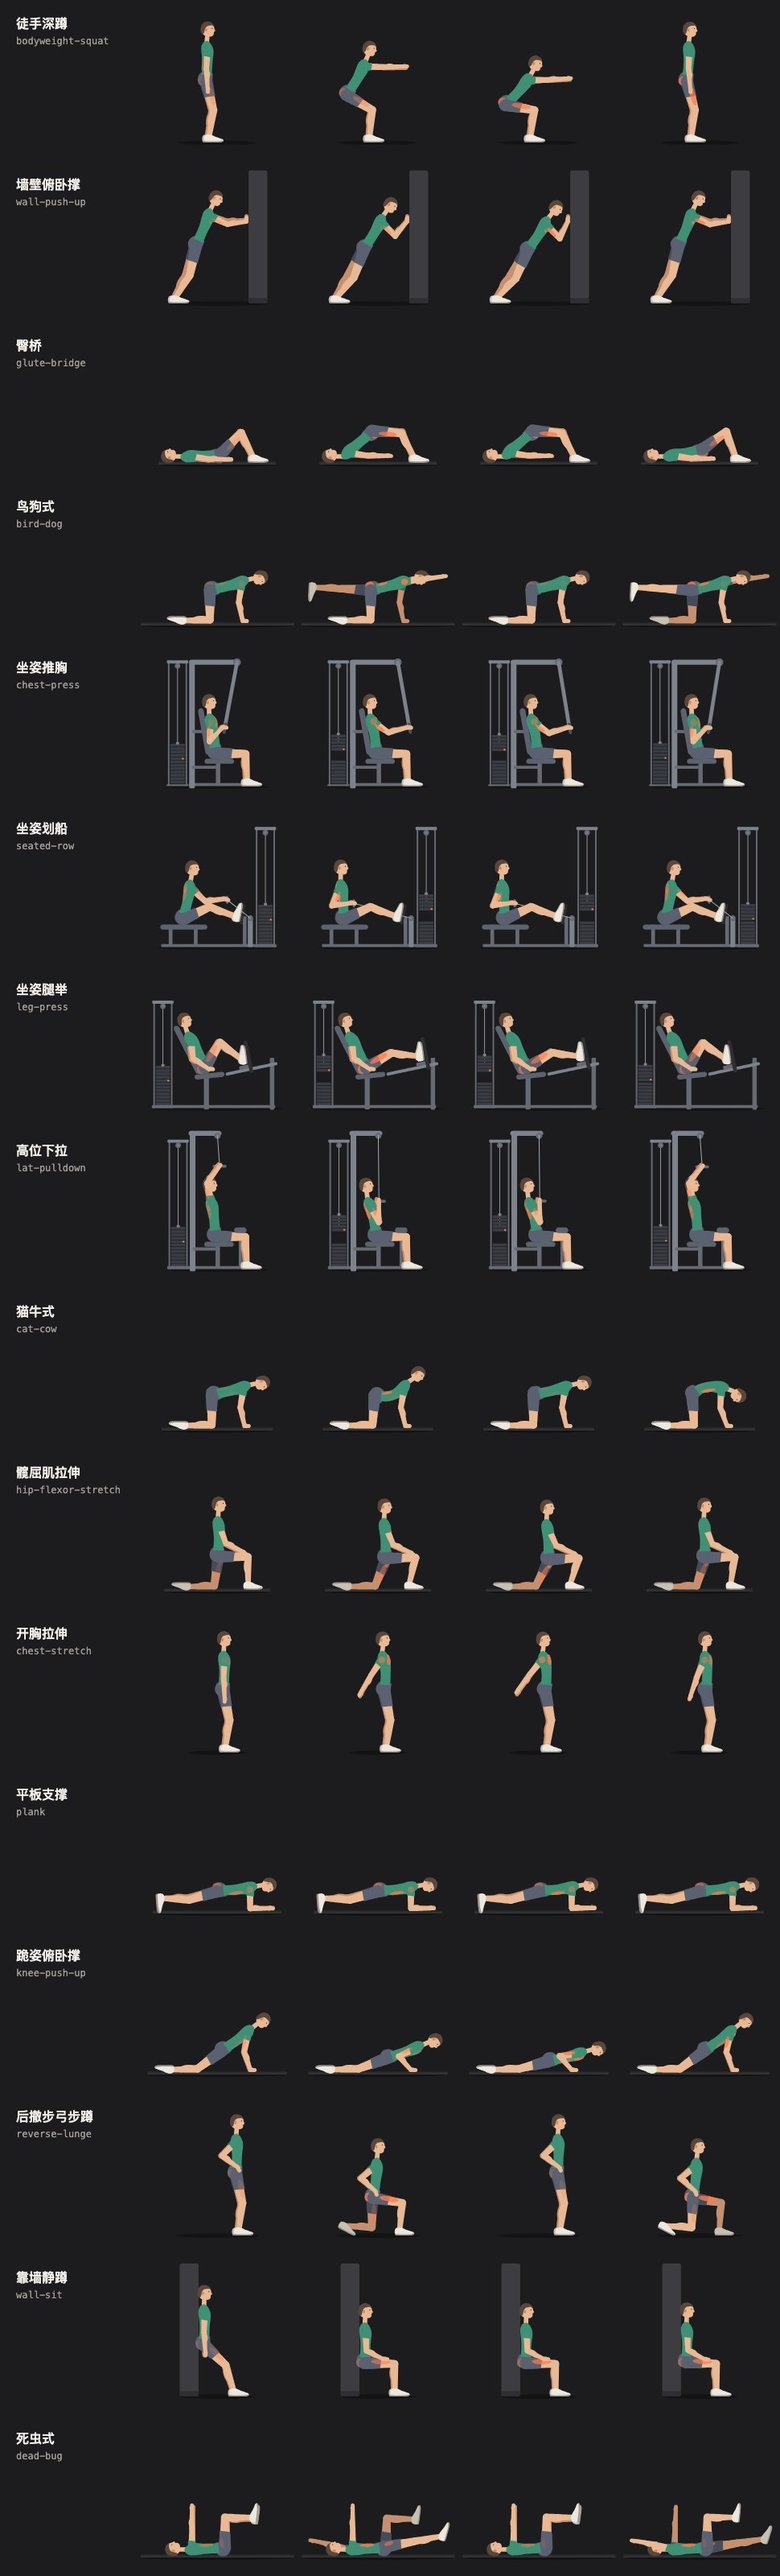
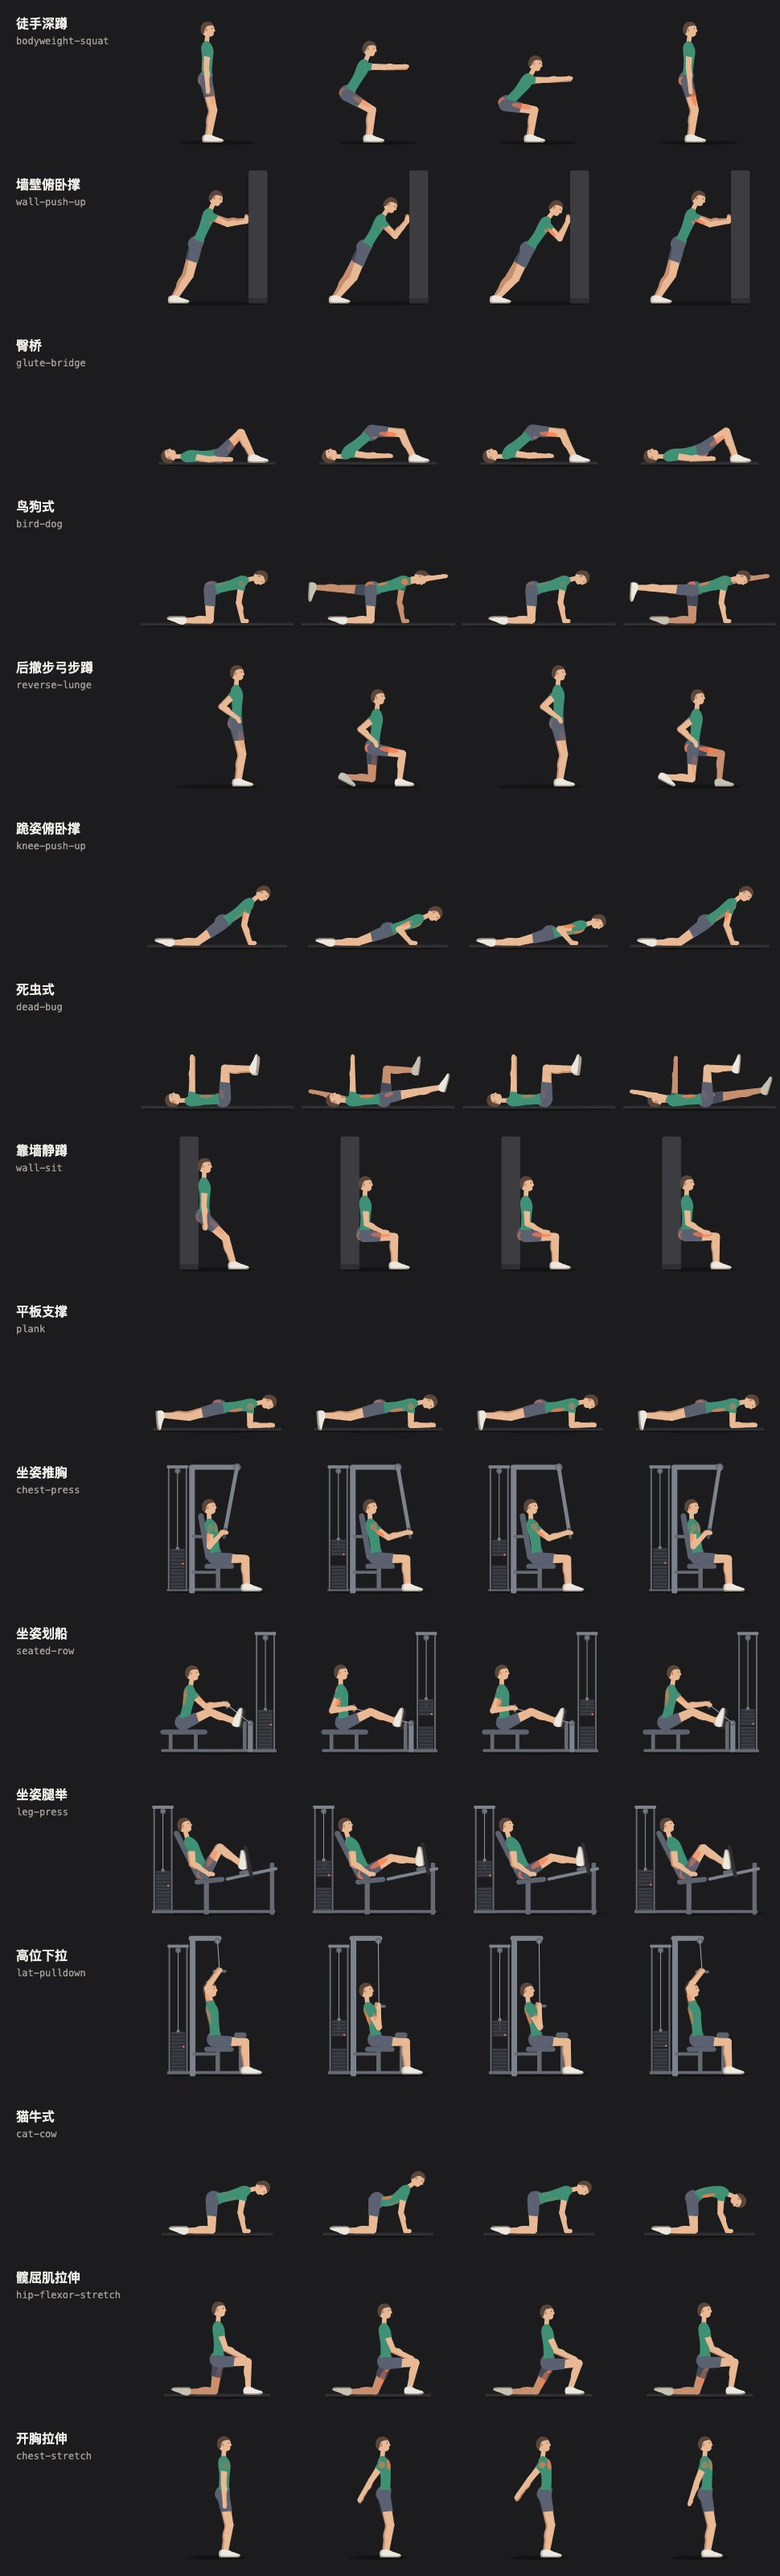
feat: add home intermediate course
Add the home-intermediate course to the iOS app and to the animation
registry. It uses the five exercises that had animations but no course:
reverse-lunge, knee-push-up, dead-bug, wall-sit and plank.

- iOS: add WorkoutLibrary.homeIntermediate (25 minutes, 5 exercises)
  and a new section on the training page. The mobility row now uses
  the shared CourseRow view.
- animations: move the five exercises from LIBRARY to the
  home-intermediate course. index.json now lists 4 courses and no
  library entries. The preview page skips empty groups.
- Docs: update the course counts in animations/README.md and
  ios/README.md.

The Android changes are not in this commit. They live in files of the
uncommitted Android port under club/leanmuscle/.

diff --git a/ios/Boji/Views/TrainingView.swift b/ios/Boji/Views/TrainingView.swift
@@ -22,20 +22,37 @@ struct TrainingView: View {
                             Label("从轻负荷开始，先熟悉动作，再逐步增加。", systemImage: "figure.mind.and.body").font(.subheadline)
                         }
                     }
+                    SectionHeading(title: "准备好了，再进一步")
+                    NavigationLink { WorkoutDetailView(workout: WorkoutLibrary.homeIntermediate) } label: {
+                        CourseRow(workout: WorkoutLibrary.homeIntermediate, symbol: "figure.strengthtraining.traditional", color: BojiTheme.accent,
+                                  detail: "\(WorkoutLibrary.homeIntermediate.minutes) 分钟 · \(WorkoutLibrary.homeIntermediate.exercises.count) 个动作")
+                    }.buttonStyle(.plain)
                     SectionHeading(title: "给身体一点余地")
                     NavigationLink { WorkoutDetailView(workout: WorkoutLibrary.mobility) } label: {
-                        Surface {
-                            HStack(spacing: 16) {
-                                SymbolTile(symbol: "figure.flexibility", color: BojiTheme.green)
-                                VStack(alignment: .leading, spacing: 6) { Text(WorkoutLibrary.mobility.title).font(.headline); Text("\(WorkoutLibrary.mobility.minutes) 分钟 · 温和活动").font(.caption).foregroundStyle(.secondary) }
-                                Spacer(); Image(systemName: "chevron.right").font(.caption.bold()).foregroundStyle(.secondary)
-                            }
-                        }
+                        CourseRow(workout: WorkoutLibrary.mobility, symbol: "figure.flexibility", color: BojiTheme.green,
+                                  detail: "\(WorkoutLibrary.mobility.minutes) 分钟 · 温和活动")
                     }.buttonStyle(.plain)
                     Text("课程是通用入门参考，不是个性化处方。有伤病或运动限制时，先咨询专业人员。出现疼痛、头晕或不适时立即停止。")
                         .font(.footnote).foregroundStyle(.secondary).padding(.bottom, 20)
                 }.padding(20).frame(maxWidth: 680).frame(maxWidth: .infinity)
             }.pageBackground().navigationTitle("训练").navigationBarTitleDisplayMode(.inline)
+        }
+    }
+}
+
+/// One-line course entry on the training page.
+private struct CourseRow: View {
+    let workout: Workout
+    let symbol: String
+    let color: Color
+    let detail: String
+    var body: some View {
+        Surface {
+            HStack(spacing: 16) {
+                SymbolTile(symbol: symbol, color: color)
+                VStack(alignment: .leading, spacing: 6) { Text(workout.title).font(.headline); Text(detail).font(.caption).foregroundStyle(.secondary) }
+                Spacer(); Image(systemName: "chevron.right").font(.caption.bold()).foregroundStyle(.secondary)
+            }
         }
     }
 }

diff --git a/animations/src/courses.ts b/animations/src/courses.ts
@@ -5,6 +5,11 @@ import bodyweightSquat from './exercises/bodyweight-squat.ts';
 import wallPushUp from './exercises/wall-push-up.ts';
 import gluteBridge from './exercises/glute-bridge.ts';
 import birdDog from './exercises/bird-dog.ts';
+import reverseLunge from './exercises/reverse-lunge.ts';
+import kneePushUp from './exercises/knee-push-up.ts';
+import deadBug from './exercises/dead-bug.ts';
+import wallSit from './exercises/wall-sit.ts';
+import plank from './exercises/plank.ts';
 import chestPress from './exercises/chest-press.ts';
 import seatedRow from './exercises/seated-row.ts';
 import legPress from './exercises/leg-press.ts';
@@ -12,22 +17,18 @@ import latPulldown from './exercises/lat-pulldown.ts';
 import catCow from './exercises/cat-cow.ts';
 import hipFlexorStretch from './exercises/hip-flexor-stretch.ts';
 import chestStretch from './exercises/chest-stretch.ts';
-import plank from './exercises/plank.ts';
-import kneePushUp from './exercises/knee-push-up.ts';
-import reverseLunge from './exercises/reverse-lunge.ts';
-import wallSit from './exercises/wall-sit.ts';
-import deadBug from './exercises/dead-bug.ts';
 
-export type CourseId = 'home-beginner' | 'gym-beginner' | 'mobility';
+export type CourseId = 'home-beginner' | 'home-intermediate' | 'gym-beginner' | 'mobility';
 
 export const COURSES: { id: CourseId; exercises: Exercise[] }[] = [
   { id: 'home-beginner', exercises: [bodyweightSquat, wallPushUp, gluteBridge, birdDog] },
+  { id: 'home-intermediate', exercises: [reverseLunge, kneePushUp, deadBug, wallSit, plank] },
   { id: 'gym-beginner', exercises: [chestPress, seatedRow, legPress, latPulldown] },
   { id: 'mobility', exercises: [catCow, hipFlexorStretch, chestStretch] },
 ];
 
 /** Exercises with animations that no app course uses yet. index.json lists them with `course: null`. */
-export const LIBRARY: Exercise[] = [plank, kneePushUp, reverseLunge, wallSit, deadBug];
+export const LIBRARY: Exercise[] = [];
 
 export interface CourseExercise extends Exercise {
   course: CourseId | null;

diff --git a/ios/Boji/Models/BojiStore.swift b/ios/Boji/Models/BojiStore.swift
@@ -96,6 +96,56 @@ enum WorkoutLibrary {
         ]
     )
 
+    static let homeIntermediate = Workout(
+        id: "home-intermediate",
+        title: "居家进阶训练",
+        subtitle: "基础训练之后的下一步",
+        minutes: 25,
+        level: "进阶",
+        exercises: [
+            Exercise(
+                id: "reverse-lunge",
+                name: "后撤步弓步蹲",
+                sets: 3,
+                reps: "每侧 8 次",
+                tip: "后撤一步再下蹲，前膝对准脚尖。",
+                symbol: "figure.lunge"
+            ),
+            Exercise(
+                id: "knee-push-up",
+                name: "跪姿俯卧撑",
+                sets: 3,
+                reps: "8–10 次",
+                tip: "膝盖到头保持一条直线，胸口慢慢下放。",
+                symbol: "figure.strengthtraining.traditional"
+            ),
+            Exercise(
+                id: "dead-bug",
+                name: "死虫式",
+                sets: 3,
+                reps: "每侧 6 次",
+                tip: "腰背贴住地面，对侧手脚慢慢伸出。",
+                symbol: "figure.core.training"
+            ),
+            Exercise(
+                id: "wall-sit",
+                name: "靠墙静蹲",
+                sets: 3,
+                reps: "20–30 秒",
+                tip: "背部贴墙，大腿与地面平行。",
+                symbol: "figure.strengthtraining.traditional"
+            ),
+            Exercise(
+                id: "plank",
+                name: "平板支撑",
+                sets: 3,
+                reps: "20–30 秒",
+                tip: "肘在肩正下方，身体保持一条直线。",
+                symbol: "figure.core.training"
+            )
+        ]
+    )
+
     static let gym = Workout(
         id: "gym-beginner",
         title: "器械基础训练",

diff --git a/animations/preview/index.html b/animations/preview/index.html
@@ -66,6 +66,7 @@
 <script>
   const COURSES = [
     { id: 'home-beginner', title: '居家基础训练', note: '无需器械的全身入门' },
+    { id: 'home-intermediate', title: '居家进阶训练', note: '基础训练之后的下一步' },
     { id: 'gym-beginner', title: '器械基础训练', note: '轻重量熟悉常用器械' },
     { id: 'mobility', title: '舒缓拉伸', note: '训练前后都可进行' },
     { id: null, title: '动作库', note: '尚未编入课程的动作' },
@@ -81,6 +82,7 @@
 
   for (const course of COURSES) {
     const items = index.filter((x) => x.course === course.id);
+    if (items.length === 0) continue;
     const sec = document.createElement('section');
     sec.innerHTML = `<h2>${course.title}</h2><p>${course.note} · ${items.length} 个动作</p><div class="grid"></div>`;
     const grid = sec.querySelector('.grid');

diff --git a/animations/README.md b/animations/README.md
@@ -1,6 +1,6 @@
 # Boji 动作动画
 
-本目录生成 16 个动作的 Lottie 动画。其中 11 个属于 Boji 的三门课程，5 个属于动作库。动作库指已有动画、但尚未编入应用课程的动作。每个动作有浅色和深色两个版本，共 32 个 JSON 文件。动画由 TypeScript 程序生成，不含第三方素材，没有授权限制。文件名就是动作 ID。课程动作的 ID 与 iOS `Exercise.id` 和 Android `Workout.kt` 一致，应用按 ID 加载。
+本目录生成 Boji 四门课程全部 16 个动作的 Lottie 动画。每个动作有浅色和深色两个版本，共 32 个 JSON 文件。动画由 TypeScript 程序生成，不含第三方素材，没有授权限制。文件名就是动作 ID，与 iOS `Exercise.id` 和 Android `Workout.kt` 一致，应用按 ID 加载。
 
 关键帧总览见 [浅色总览图](docs/contact-sheet-light.jpg) 和 [深色总览图](docs/contact-sheet-dark.jpg)。每行是一个动作，4 列分别是循环的 0%、25%、50% 和 75% 处。
 
@@ -79,7 +79,7 @@
 新增动作时，在 `src/exercises/` 中新建脚本，再到 `src/courses.ts` 中注册：
 
 - 应用课程已经使用的动作，按课程顺序加入 `COURSES`。动作 ID 必须与应用中的 `Exercise.id` 一致。
-- 尚未编入课程的动作，加入 `LIBRARY`。
+- 尚未编入课程的动作，加入 `LIBRARY`。目前 `LIBRARY` 为空。
 - 应用课程开始使用动作库中的某个动作时，把它从 `LIBRARY` 移到 `COURSES`。
 
 ## 动作清单
@@ -90,6 +90,11 @@
 | 居家基础训练 | 墙壁俯卧撑 | `wall-push-up` | 3.3 秒 | 胸大肌、肱三头肌 | 身体保持直线，双手固定在墙上 |
 | 居家基础训练 | 臀桥 | `glute-bridge` | 4.2 秒 | 臀大肌、腘绳肌 | 顶点时肩、髋、膝成一条直线 |
 | 居家基础训练 | 鸟狗式 | `bird-dog` | 7.4 秒 | 臀大肌、竖脊肌、三角肌 | 左右各做一次，对侧手脚同时伸展 |
+| 居家进阶训练 | 后撤步弓步蹲 | `reverse-lunge` | 6.3 秒 | 股四头肌、臀大肌 | 左右各做一次，后脚踮脚尖着地，前小腿接近垂直 |
+| 居家进阶训练 | 跪姿俯卧撑 | `knee-push-up` | 3.3 秒 | 胸大肌、肱三头肌、腹直肌 | 身体以膝盖为支点下放，双手固定，肘部向后收 |
+| 居家进阶训练 | 死虫式 | `dead-bug` | 6.6 秒 | 腹直肌、髂腰肌 | 仰卧桌面位，左右各做一次，对侧手脚同时伸展 |
+| 居家进阶训练 | 靠墙静蹲 | `wall-sit` | 6.2 秒 | 股四头肌、臀大肌 | 背贴墙下滑到大腿水平，保持 3 秒，发力逐渐加深 |
+| 居家进阶训练 | 平板支撑 | `plank` | 4.0 秒 | 腹直肌、臀大肌、三角肌 | 前臂撑地，肘在肩正下方，身体保持直线。循环展示一次缓慢呼吸 |
 | 器械基础训练 | 坐姿推胸 | `chest-press` | 3.4 秒 | 胸大肌、肱三头肌、三角肌 | 背部贴住靠垫，推出时肘部微屈 |
 | 器械基础训练 | 坐姿划船 | `seated-row` | 3.5 秒 | 背阔肌、菱形肌和斜方肌中部、肱二头肌 | 躯干从前倾回到直立，肩胛后收 |
 | 器械基础训练 | 坐姿腿举 | `leg-press` | 3.6 秒 | 股四头肌、臀大肌 | 伸腿到膝盖微屈为止，不锁死 |
@@ -97,11 +102,6 @@
 | 舒缓拉伸 | 猫牛式 | `cat-cow` | 5.0 秒 | 腹直肌、竖脊肌 | 脊柱在拱背和塌腰之间交替，双手不动 |
 | 舒缓拉伸 | 髋屈肌拉伸 | `hip-flexor-stretch` | 5.8 秒 | 髂腰肌、股四头肌 | 骨盆缓慢前移，后侧腿的髋屈肌发亮 |
 | 舒缓拉伸 | 开胸拉伸 | `chest-stretch` | 5.4 秒 | 胸大肌、三角肌 | 双臂向后打开，胸部前挺 |
-| 动作库 | 平板支撑 | `plank` | 4.0 秒 | 腹直肌、臀大肌、三角肌 | 前臂撑地，肘在肩正下方，身体保持直线。循环展示一次缓慢呼吸 |
-| 动作库 | 跪姿俯卧撑 | `knee-push-up` | 3.3 秒 | 胸大肌、肱三头肌、腹直肌 | 身体以膝盖为支点下放，双手固定，肘部向后收 |
-| 动作库 | 后撤步弓步蹲 | `reverse-lunge` | 6.3 秒 | 股四头肌、臀大肌 | 左右各做一次，后脚踮脚尖着地，前小腿接近垂直 |
-| 动作库 | 靠墙静蹲 | `wall-sit` | 6.2 秒 | 股四头肌、臀大肌 | 背贴墙下滑到大腿水平，保持 3 秒，发力逐渐加深 |
-| 动作库 | 死虫式 | `dead-bug` | 6.6 秒 | 腹直肌、髂腰肌 | 仰卧桌面位，左右各做一次，对侧手脚同时伸展 |
 
 ## 应用接入契约
 

diff --git a/ios/README.md b/ios/README.md
@@ -7,7 +7,7 @@ Boji 的原生 iOS 客户端，本地优先。界面采用 SwiftUI 和系统 Liq
 - 首次引导：选择居家或健身房训练。
 - 今日看板：训练、饮水、睡眠的记录状态。
 - 日常记录：饮水增减、睡眠时长和输入校验。
-- 训练：3 套入门课程、动作说明和逐组训练。
+- 训练：4 套课程（3 套入门、1 套进阶）、动作说明和逐组训练。
 - 训练计时：暂停、继续、休息倒计时和完成记录。
 - 足迹：最近 7 天活动、身体数据和趋势图。
 - 俱乐部：本地每周挑战、免费会员身份卡和入门文章。
